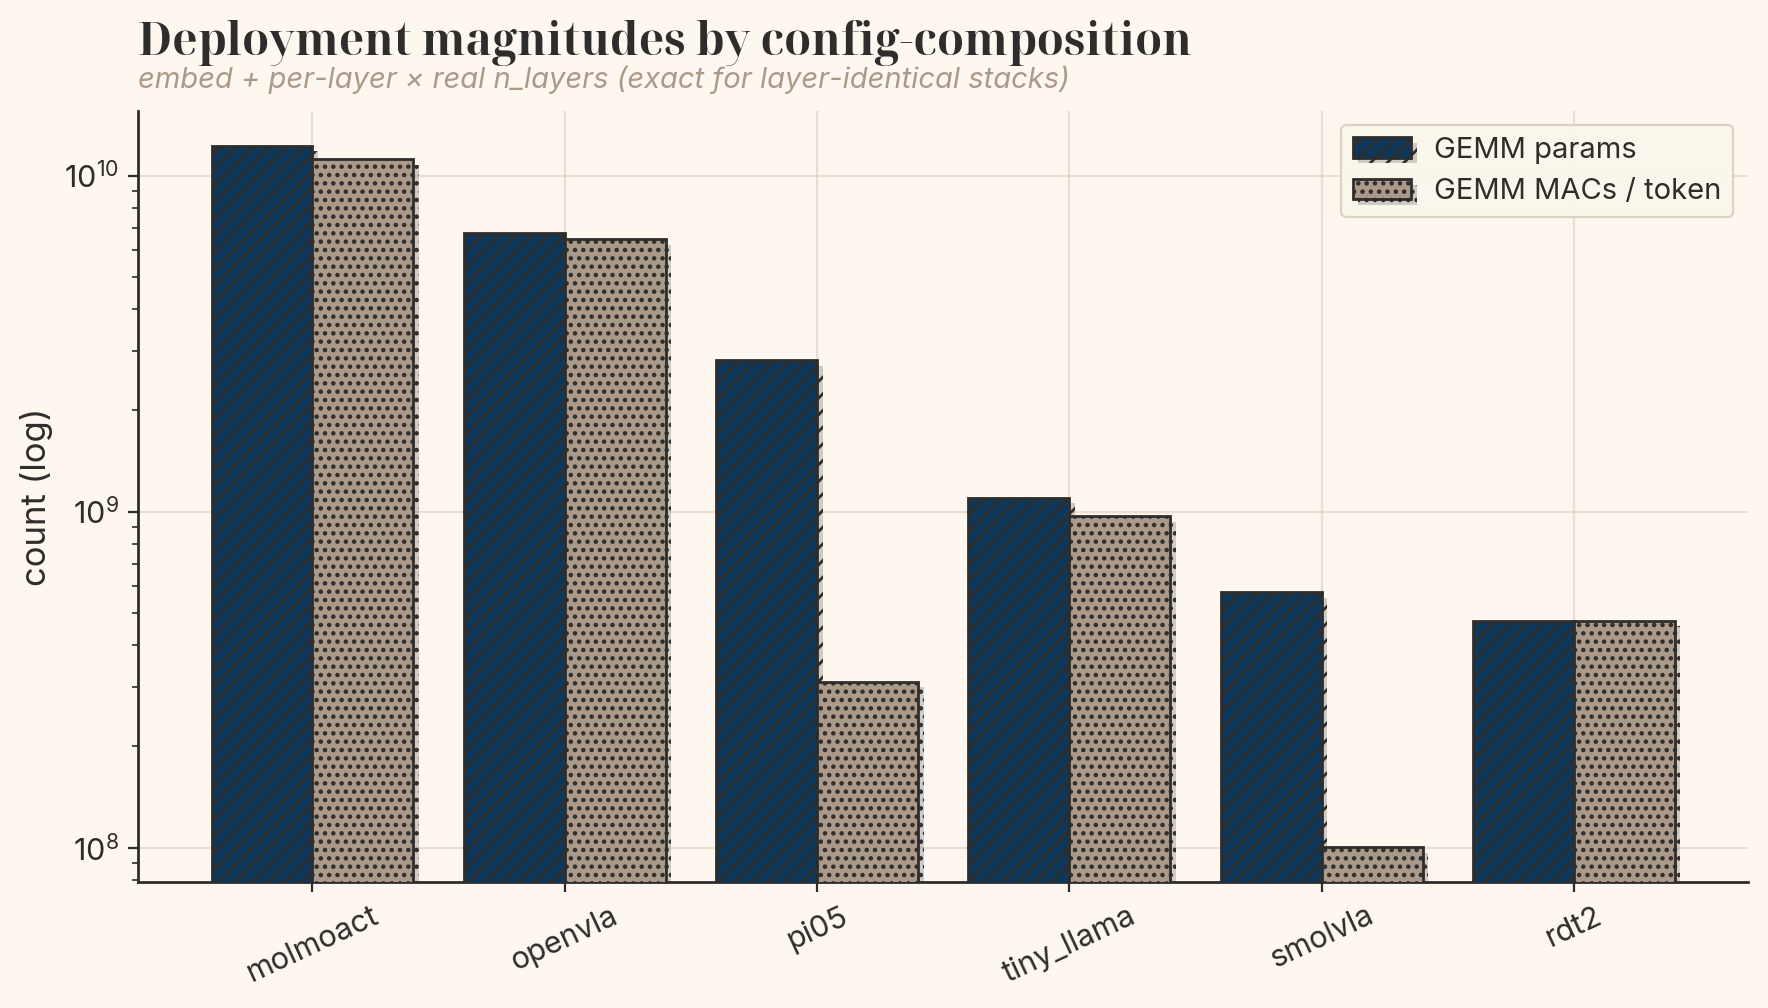
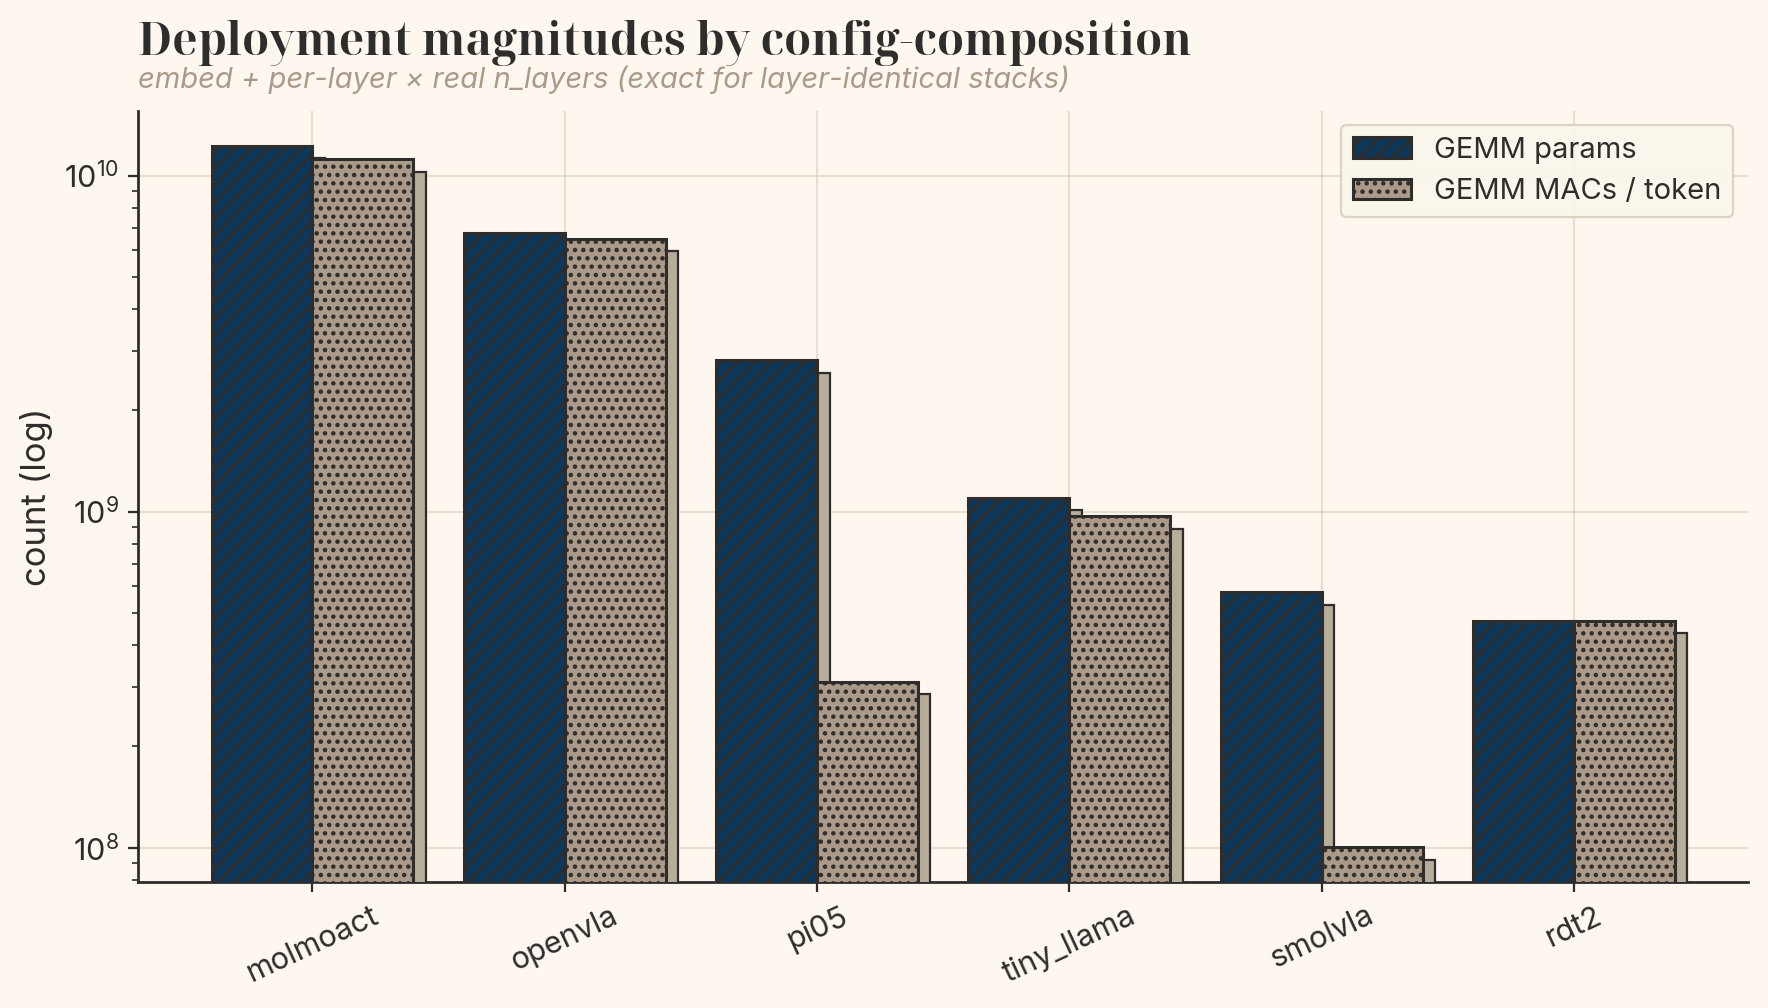
P26 fix: solid 3D-extrusion bar shadow (matches reference), not a soft drop shadow
The soft low-alpha patheffects shadow was too faint and blurry. Replaced with _extrude(): a SOLID
taupe-grey (#B7AD9B) offset rectangle behind each bar (offset in points so it's log/scale-safe), with
a thin ink edge — so the bar reads as a 3D block whose corner meets the shadow, like image copy 6.
Applied to all vertical (_bars) and horizontal (visible_linear) bar plots.

diff --git a/merlin/python/merlin/dse_guidance/presentation_final.py b/merlin/python/merlin/dse_guidance/presentation_final.py
@@ -77,9 +77,25 @@ def _title(ax, title, subtitle=None):
                     fontstyle="italic", color=_GOLD)
 
 
+_SHADOW = "#B7AD9B"   # solid taupe-grey extrusion block (matches the reference 3D-bar look)
+
+
 def _shadow():
     import matplotlib.patheffects as pe
     return [pe.withSimplePatchShadow(offset=(2.0, -2.0), shadow_rgbFace=_INK, alpha=0.22)]
+
+
+def _extrude(ax, bars, dx=4.5, dy=-4.5):
+    """Give bars a 3D-block look: a SOLID offset rectangle behind each bar (corner meets corner),
+    like the reference figures — not a soft/blurry drop shadow. Offset is in points (scale/log safe)."""
+    import matplotlib.transforms as mt
+    from matplotlib.patches import Rectangle
+    off = mt.offset_copy(ax.transData, fig=ax.figure, x=dx, y=dy, units="points")
+    z = (bars[0].get_zorder() if len(bars) else 3) - 0.2
+    for b in bars:
+        bb = b.get_bbox()
+        ax.add_patch(Rectangle((bb.x0, bb.y0), bb.width, bb.height, transform=off, facecolor=_SHADOW,
+                               edgecolor=_INK, linewidth=0.8, joinstyle="miter", zorder=z))
 
 
 def _nice_limits(values, pad=0.10, force_zero=False):
@@ -95,11 +111,10 @@ def _nice_limits(values, pad=0.10, force_zero=False):
 
 
 def _bars(ax, x, heights, width, color, hatch="", label=None, shadow=True, zorder=3):
-    bars = ax.bar(x, heights, width, color=color, edgecolor=_INK, linewidth=1.0, hatch=hatch,
+    bars = ax.bar(x, heights, width, color=color, edgecolor=_INK, linewidth=1.1, hatch=hatch,
                   label=label, zorder=zorder)
     if shadow:
-        for b in bars:
-            b.set_path_effects(_shadow())
+        _extrude(ax, bars)
     return bars
 
 
@@ -289,9 +304,8 @@ def _r_visible_linear_fraction(cs, ax):
     wl = [r["workload"] for r in rows]
     frac = [float(r["visible_linear_fraction"]) for r in rows]
     y = list(range(len(wl)))
-    bars = ax.barh(y, frac, color=_PALETTE[1], edgecolor=_INK, linewidth=1.0, hatch=_HATCHES[1])
-    for b in bars:
-        b.set_path_effects(_shadow())
+    bars = ax.barh(y, frac, color=_PALETTE[1], edgecolor=_INK, linewidth=1.1, hatch=_HATCHES[1])
+    _extrude(ax, bars)
     for yi, f in zip(y, frac):
         ax.annotate(f"{f:.2f}", (f, yi), xytext=(5, 0), textcoords="offset points", va="center",
                     fontsize=10, color=_INK)
